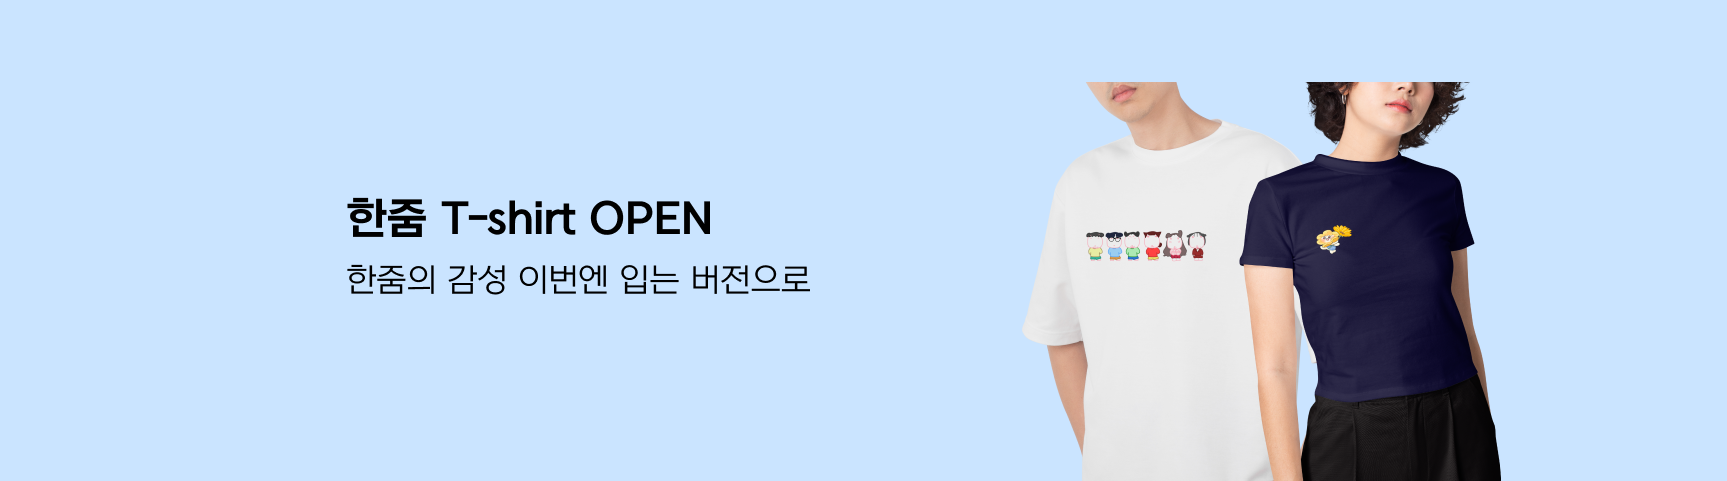
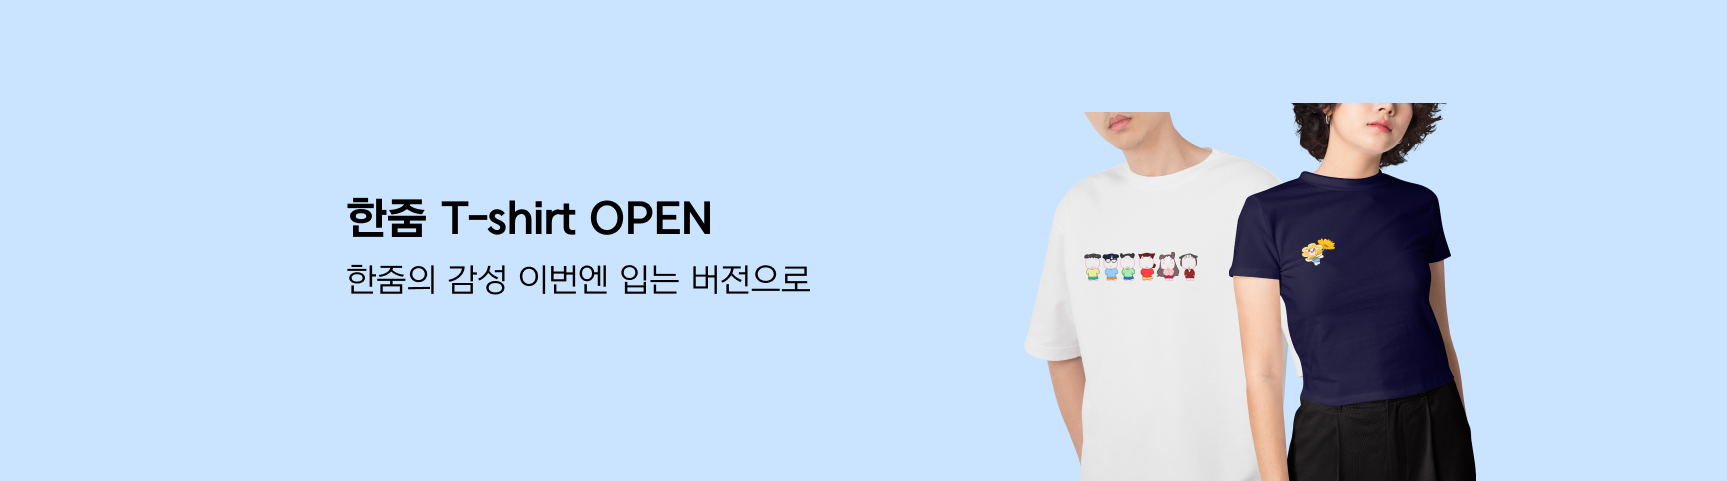
minor change

diff --git a/src/components/Navbar.tsx b/src/components/Navbar.tsx
@@ -54,7 +54,7 @@ const Navbar: React.FC = () => {
 				{/* 로고 영역 - 좌우 300px 간격 */}
 				<div>
 					<Link to="/">
-						<motion.img src={isMainPage ? logoWhite : isShopPage ? logo : logoBlack} alt="Logo" className="h-12" whileHover={{ scale: 1.06,  }} transition={{ type: "spring", stiffness: 300 }} />
+						<motion.img src={isMainPage ? logoWhite : logo} alt="Logo" className="h-12" whileHover={{ scale: 1.06,  }} transition={{ type: "spring", stiffness: 300 }} />
 					</Link>
 				</div>
 
@@ -66,7 +66,7 @@ const Navbar: React.FC = () => {
 				>
 					<Link
 						to="/shop"
-						className={`flex items-center justify-center px-6 py-1.5 rounded-full border-2 border-transparent ${isMainPage ? 'text-white hover:border-white' : isShopPage ? 'text-primary hover:border-primary' : 'text-[#5A5A5A] hover:border-[#5A5A5A]'} transition-all text-lg font-bold`}
+						className={`flex items-center justify-center px-6 py-1.5 rounded-full border-2 border-transparent ${isMainPage ? 'text-white hover:border-white' : 'text-primary hover:border-primary'} transition-all text-lg font-bold`}
 						style={{
 							fontFamily: "SUIT-Regular",
 						}}
@@ -80,7 +80,7 @@ const Navbar: React.FC = () => {
 				>
 					<Link
 						to="/customizing"
-						className={`flex items-center justify-center px-6 py-1.5 rounded-full border-2 border-transparent ${isMainPage ? 'text-white hover:border-white' : isShopPage ? 'text-primary hover:border-primary' : 'text-[#5A5A5A] hover:border-[#5A5A5A]'} transition-all text-lg font-bold`}
+						className={`flex items-center justify-center px-6 py-1.5 rounded-full border-2 border-transparent ${isMainPage ? 'text-white hover:border-white' : 'text-primary hover:border-primary'} transition-all text-lg font-bold`}
 						style={{
 							fontFamily: "SUIT-Regular",
 						}}
@@ -94,7 +94,7 @@ const Navbar: React.FC = () => {
 				>
 					<Link
 						to="/order"
-						className={`flex items-center justify-center px-6 py-1.5 rounded-full border-2 border-transparent ${isMainPage ? 'text-white hover:border-white' : isShopPage ? 'text-primary hover:border-primary' : 'text-[#5A5A5A] hover:border-[#5A5A5A]'} transition-all text-lg font-bold`}
+						className={`flex items-center justify-center px-6 py-1.5 rounded-full border-2 border-transparent ${isMainPage ? 'text-white hover:border-white' : 'text-primary hover:border-primary'} transition-all text-lg font-bold`}
 						style={{
 							fontFamily: "SUIT-Regular",
 						}}
@@ -108,7 +108,7 @@ const Navbar: React.FC = () => {
 				>
 					<Link
 						to="/archive"
-						className={`flex items-center justify-center px-6 py-1.5 rounded-full border-2 border-transparent ${isMainPage ? 'text-white hover:border-white' : isShopPage ? 'text-primary hover:border-primary' : 'text-[#5A5A5A] hover:border-[#5A5A5A]'} transition-all text-lg font-bold`}
+						className={`flex items-center justify-center px-6 py-1.5 rounded-full border-2 border-transparent ${isMainPage ? 'text-white hover:border-white' : 'text-primary hover:border-primary'} transition-all text-lg font-bold`}
 						style={{
 							fontFamily: "SUIT-Regular",
 						}}
@@ -127,7 +127,7 @@ const Navbar: React.FC = () => {
 				>
 					<Link
 						to="/login"
-						className={`flex items-center justify-center px-6 py-1.5 rounded-full border-2 border-transparent ${isMainPage ? 'text-white hover:border-white' : isShopPage ? 'text-primary hover:border-primary' : 'text-[#5A5A5A] hover:border-[#5A5A5A]'} transition-all text-lg font-bold`}
+						className={`flex items-center justify-center px-6 py-1.5 rounded-full border-2 border-transparent ${isMainPage ? 'text-white hover:border-white' : 'text-primary hover:border-primary'} transition-all text-lg font-bold`}
 						style={{
 							fontFamily: "SUIT-Regular",
 						}}
@@ -141,7 +141,7 @@ const Navbar: React.FC = () => {
 				>
 					<Link
 						to="/cart"
-						className={`flex items-center justify-center px-6 py-1.5 rounded-full border-2 border-transparent ${isMainPage ? 'text-white hover:border-white' : isShopPage ? 'text-primary hover:border-primary' : 'text-[#5A5A5A] hover:border-[#5A5A5A]'} transition-all text-lg font-bold`}
+						className={`flex items-center justify-center px-6 py-1.5 rounded-full border-2 border-transparent ${isMainPage ? 'text-white hover:border-white' : 'text-primary hover:border-primary'} transition-all text-lg font-bold`}
 						style={{
 							fontFamily: "SUIT-Regular",
 						}}
